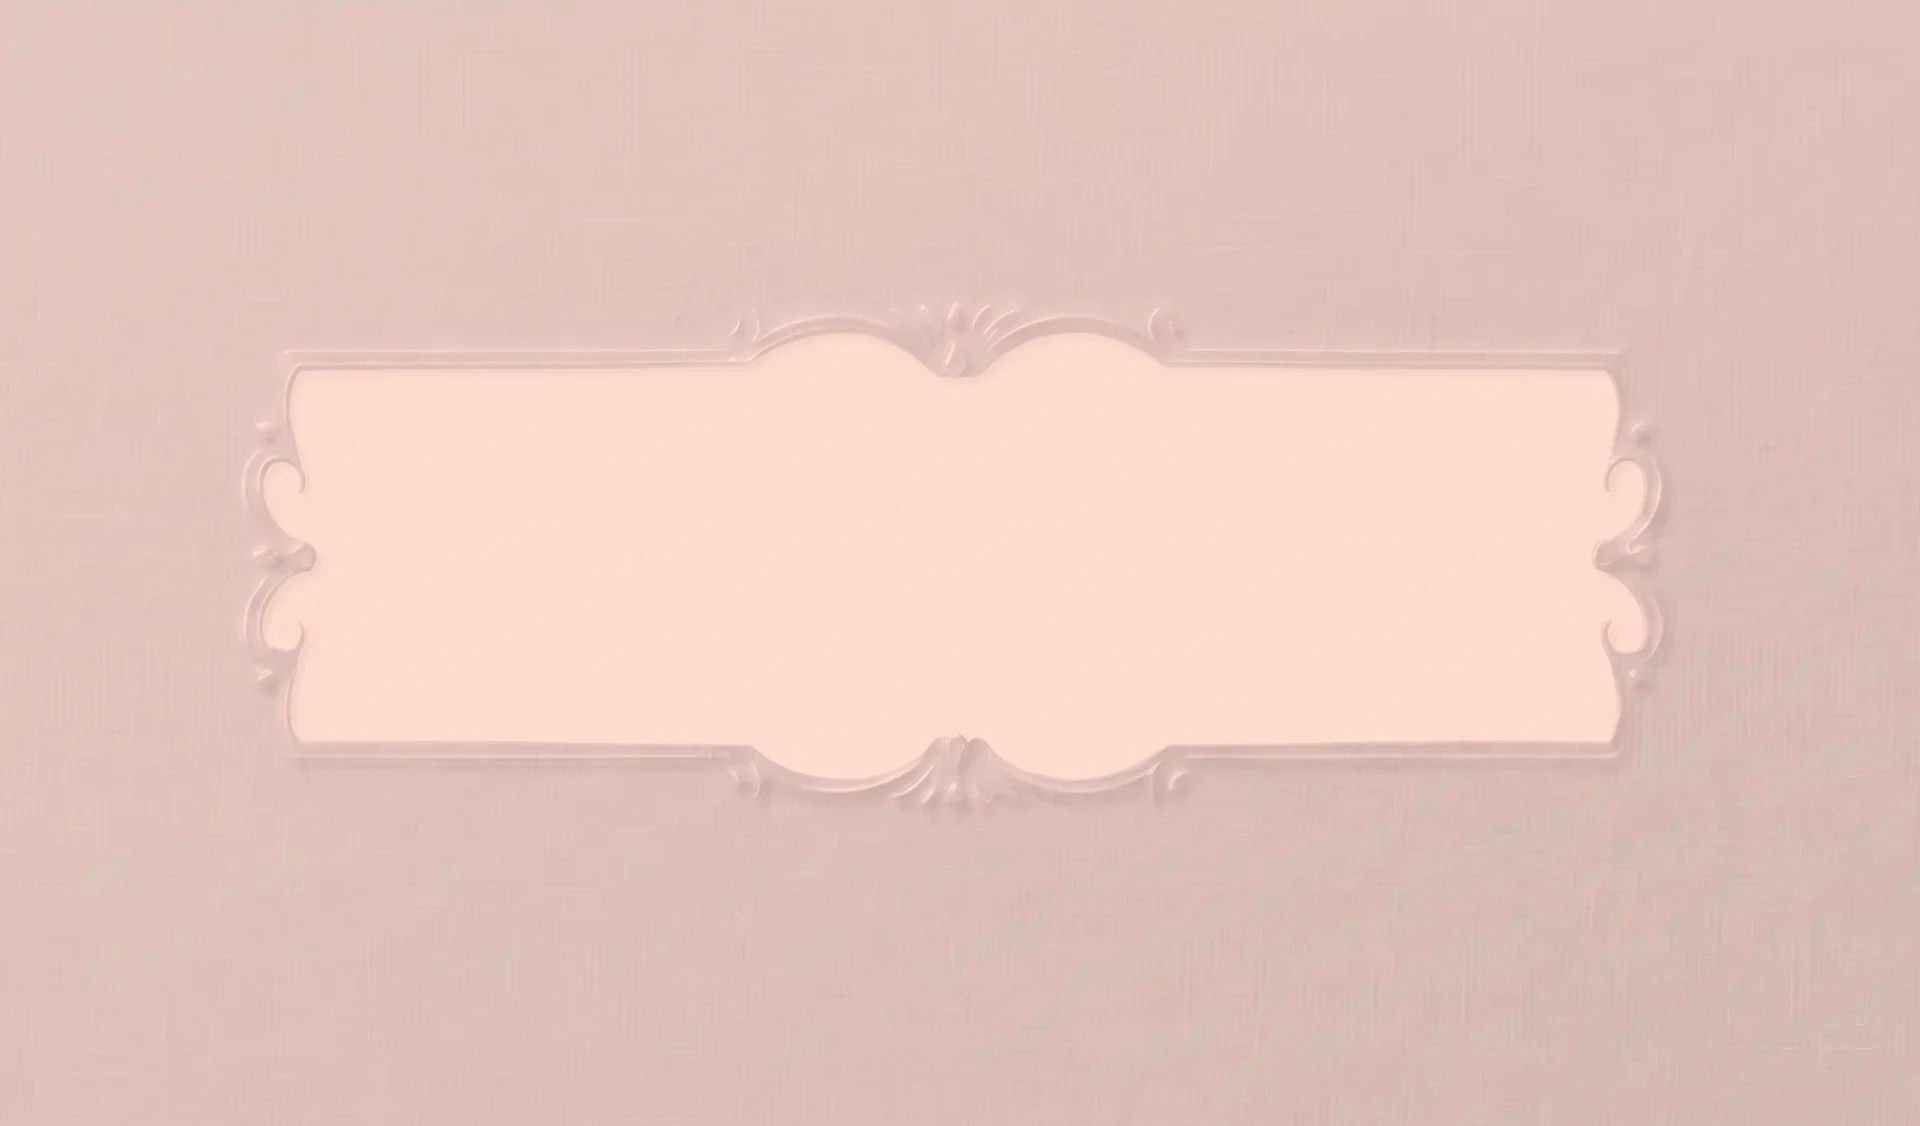
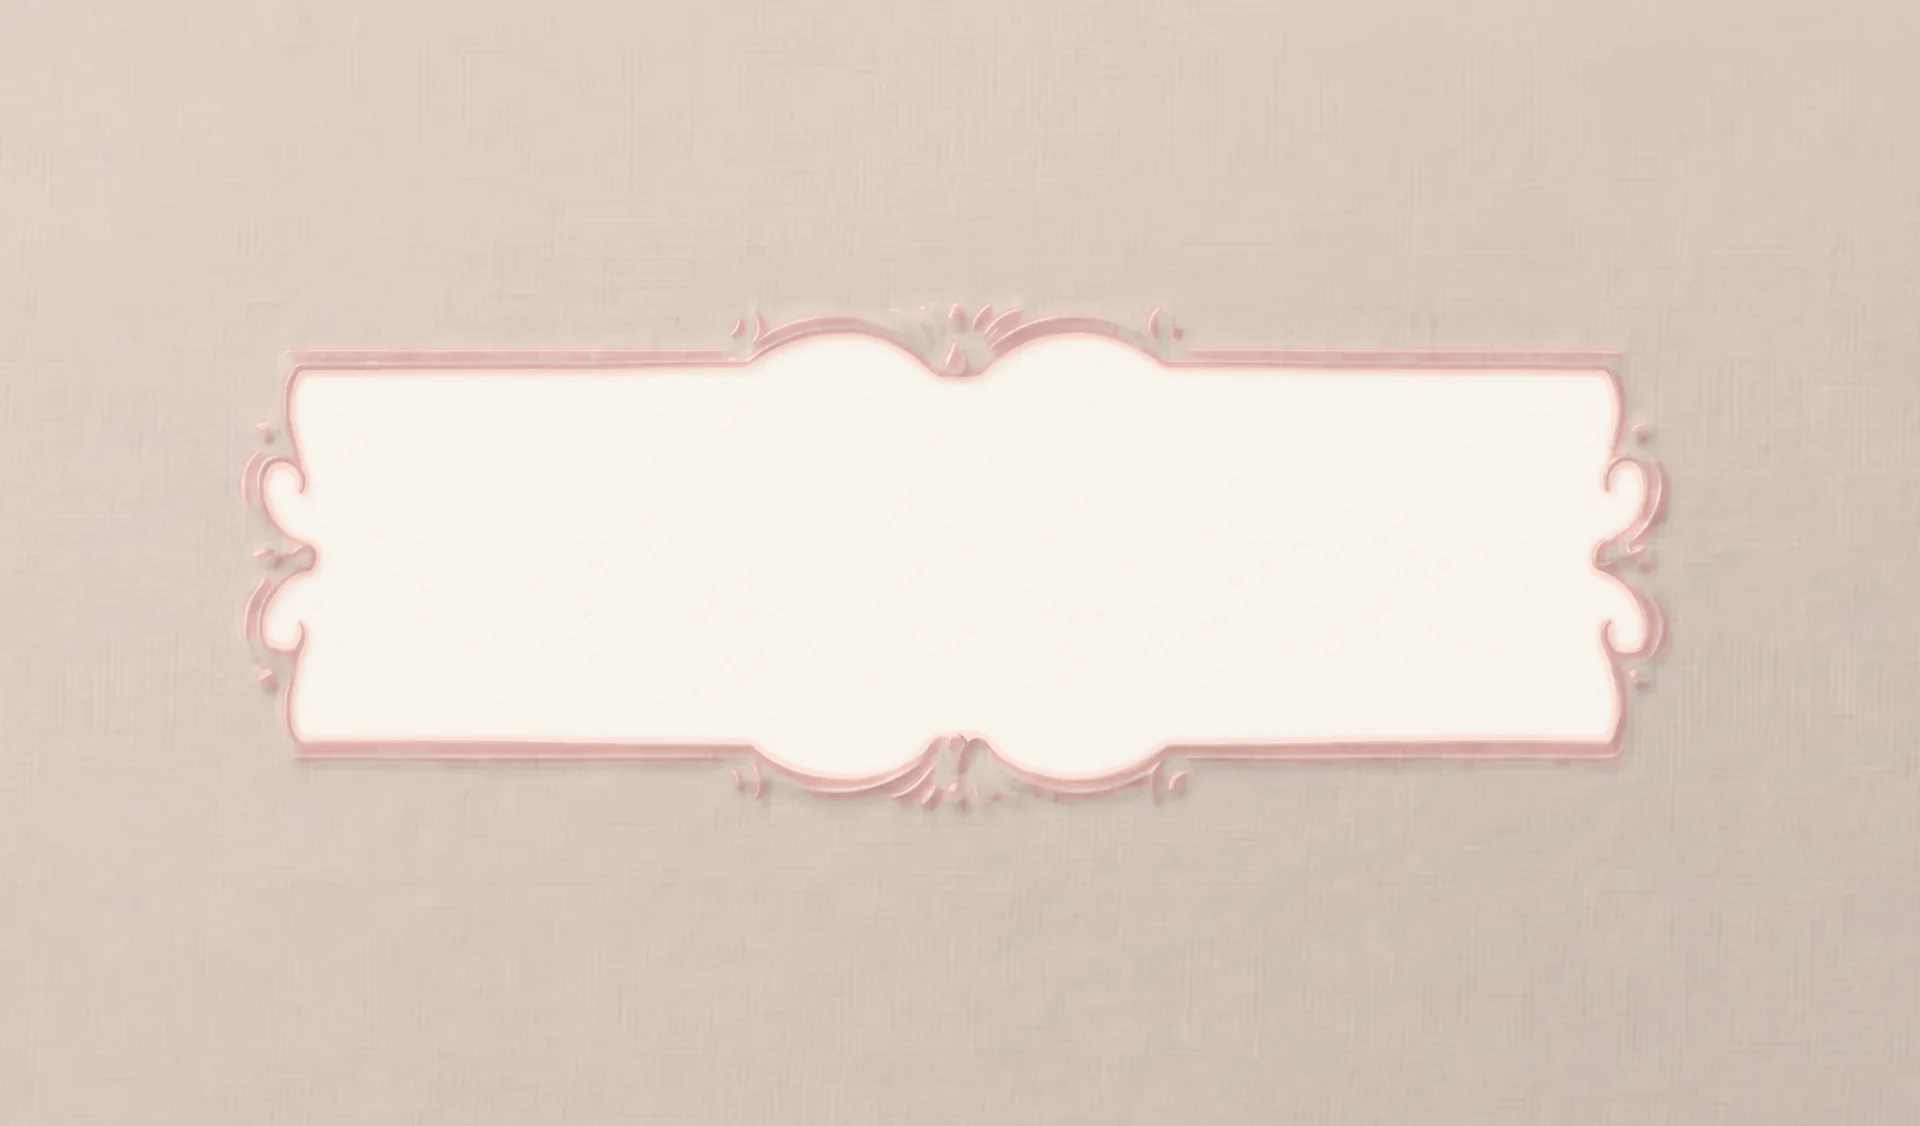
دعوة ErcJsBi: ألوان زي صورة المالك — ورق بيج رمادي دافي، زخارف وردي باهت ولمعة لؤلؤ، كلام موف غامق، فواصل لؤلؤ، زرار لوكيشن لؤلؤي، العدّاد بنفس الورق
Claude-Session: https://claude.ai/code/session_01VKo1mCg4U4XatxSLATVCTJ

Changed region(s): [[0.125, 0.2798, 0.875, 0.6838]]

diff --git a/custom-invitations/ErcJsBi.js b/custom-invitations/ErcJsBi.js
@@ -42,7 +42,14 @@ const HEAD = `<link rel="stylesheet" href="https://fonts.googleapis.com/css2?fam
   if (l === 'ku') { document.documentElement.classList.add('ek-ku'); document.documentElement.dir = 'ltr'; document.documentElement.lang = 'ku'; }
 })();</script>
 <style id="ek-css">
-:root{--bg:#e3cbc0;--bg-rgb:227,203,192;--fg:#704f50;--fg-rgb:112,79,80}
+:root{--bg:#dacac0;--bg-rgb:218,202,192;--fg:#6e4c50;--fg-rgb:110,76,80;--rose:#c59a94;--rose-rgb:197,154,148}
+/* (المالك 2026-11-25، الجولة 2) ألوان صورته: ورق بيج رمادي دافي، زخارف وردي باهت، لؤلؤ أبيض، كلام موف غامق */
+.cd-title,.cd-soon{color:var(--fg)!important}
+/* زرار اللوكيشن: لؤلؤي بحرف وردي بدل البلوك الغامق */
+.btn-map>span{border-color:rgba(var(--rose-rgb),.9)!important;border-radius:40px}
+.btn-map>span>span{background:linear-gradient(180deg,#fbf6f3,#efe3de)!important;color:var(--fg)!important;border-color:rgba(var(--rose-rgb),.55)!important;border-radius:36px;box-shadow:0 8px 20px -12px rgba(110,76,80,.5)}
+.btn-map:hover>span>span{background:var(--fg)!important;color:#fbf6f3!important}
+.btn-map .b-pin{filter:saturate(.35) hue-rotate(-10deg)}
 html:not(.ek-ku) .ek-ku,html.ek-ku .ek-ar{display:none!important}
 .ek-ar{font-family:'Amiri','Amiri Ar Local',serif;letter-spacing:0}
 .ek-ku{font-family:'Cormorant Garamond',serif;letter-spacing:.01em}
@@ -54,7 +61,9 @@ html:not(.ek-ku) .ek-ku,html.ek-ku .ek-ar{display:none!important}
 .ht-with .ek-ku{font-style:italic;font-size:1.1em}
 /* كارت كلام الدعوة (جمل المالك) */
 .ekw{padding:70px 26px 40px;text-align:center;color:var(--fg)}
-.ekw-in{max-width:420px;margin:0 auto;padding:34px 22px;border:1px solid rgba(var(--fg-rgb),.28);outline:1px solid rgba(var(--fg-rgb),.12);outline-offset:6px;background:rgba(255,248,245,.35)}
+.ekw-in{position:relative;max-width:420px;margin:0 auto;padding:38px 24px;border:1px solid rgba(var(--rose-rgb),.75);outline:1px solid rgba(var(--rose-rgb),.4);outline-offset:6px;background:rgba(251,246,243,.5);box-shadow:0 10px 30px -18px rgba(110,76,80,.35)}
+.ekw-in::before,.ekw-in::after{content:"";position:absolute;left:50%;width:12px;height:12px;margin-left:-6px;border-radius:50%;background:radial-gradient(circle at 35% 30%,#fff 0,#f6eeea 35%,#d9c9c3 75%,#bfaaa4 100%);box-shadow:0 1px 2px rgba(110,76,80,.35)}
+.ekw-in::before{top:-13px}.ekw-in::after{bottom:-13px}
 .ekw p{margin:0}
 .ekw .b{font-size:24px;line-height:1.7}
 .ekw .b .ek-ku{font-size:21px;font-style:italic}
@@ -65,8 +74,8 @@ html:not(.ek-ku) .ek-ku,html.ek-ku .ek-ar{display:none!important}
 .ekw .n{margin-top:12px;font-family:'Monsieur La Doulaise Local',cursive;font-size:46px;line-height:1.2;direction:ltr}
 .ekw .w{margin-top:10px;font-size:18px;line-height:1.8}
 .ekw .w .ek-ku{font-size:18px;line-height:1.5}
-.ekw .sep{display:block;width:120px;height:9px;margin:16px auto 0;background:linear-gradient(to right,transparent,rgba(var(--fg-rgb),.5)) left 4px/52px 1px no-repeat,linear-gradient(to left,transparent,rgba(var(--fg-rgb),.5)) right 4px/52px 1px no-repeat;position:relative}
-.ekw .sep::after{content:"";position:absolute;left:50%;top:1px;width:6px;height:6px;margin-left:-3px;border:1px solid rgba(var(--fg-rgb),.6);transform:rotate(45deg)}
+.ekw .sep{display:block;width:140px;height:10px;margin:16px auto 0;position:relative;background:linear-gradient(to right,transparent,rgba(var(--rose-rgb),.9)) left 5px/58px 1px no-repeat,linear-gradient(to left,transparent,rgba(var(--rose-rgb),.9)) right 5px/58px 1px no-repeat}
+.ekw .sep::after{content:"";position:absolute;left:50%;top:0;width:10px;height:10px;margin-left:-5px;border-radius:50%;background:radial-gradient(circle at 35% 30%,#fff 0,#f6eeea 35%,#d9c9c3 75%,#bfaaa4 100%);box-shadow:0 1px 2px rgba(110,76,80,.35)}
 /* الختام */
 .ft-en-h .ek-ar{font-size:1.05em}
 .ft-en-2,.ft-l{display:none!important}
@@ -80,7 +89,7 @@ html:not(.ek-ku) .ek-ku,html.ek-ku .ek-ar{display:none!important}
   background:rgba(255,248,245,.82);box-shadow:0 0 0 1px rgba(var(--fg-rgb),.25),0 6px 18px -8px rgba(80,50,50,.45);-webkit-backdrop-filter:blur(6px);backdrop-filter:blur(6px)}
 .ek-lang button{border:0;background:transparent;padding:7px 14px;border-radius:24px;font:600 14px/1 'Cormorant Garamond',serif;color:var(--fg);cursor:pointer;-webkit-tap-highlight-color:transparent;transition:background .3s,color .3s}
 .ek-lang button.ar{font:700 14px/1 'Amiri',serif}
-html:not(.ek-ku) .ek-lang button.ar,html.ek-ku .ek-lang button.ku{background:linear-gradient(150deg,#8a6264,#6c4c4e);color:#fff7f3}
+html:not(.ek-ku) .ek-lang button.ar,html.ek-ku .ek-lang button.ku{background:linear-gradient(150deg,#8c6468,#6e4c50);color:#fff7f3}
 </style>`;
 
 const WORDS = `
